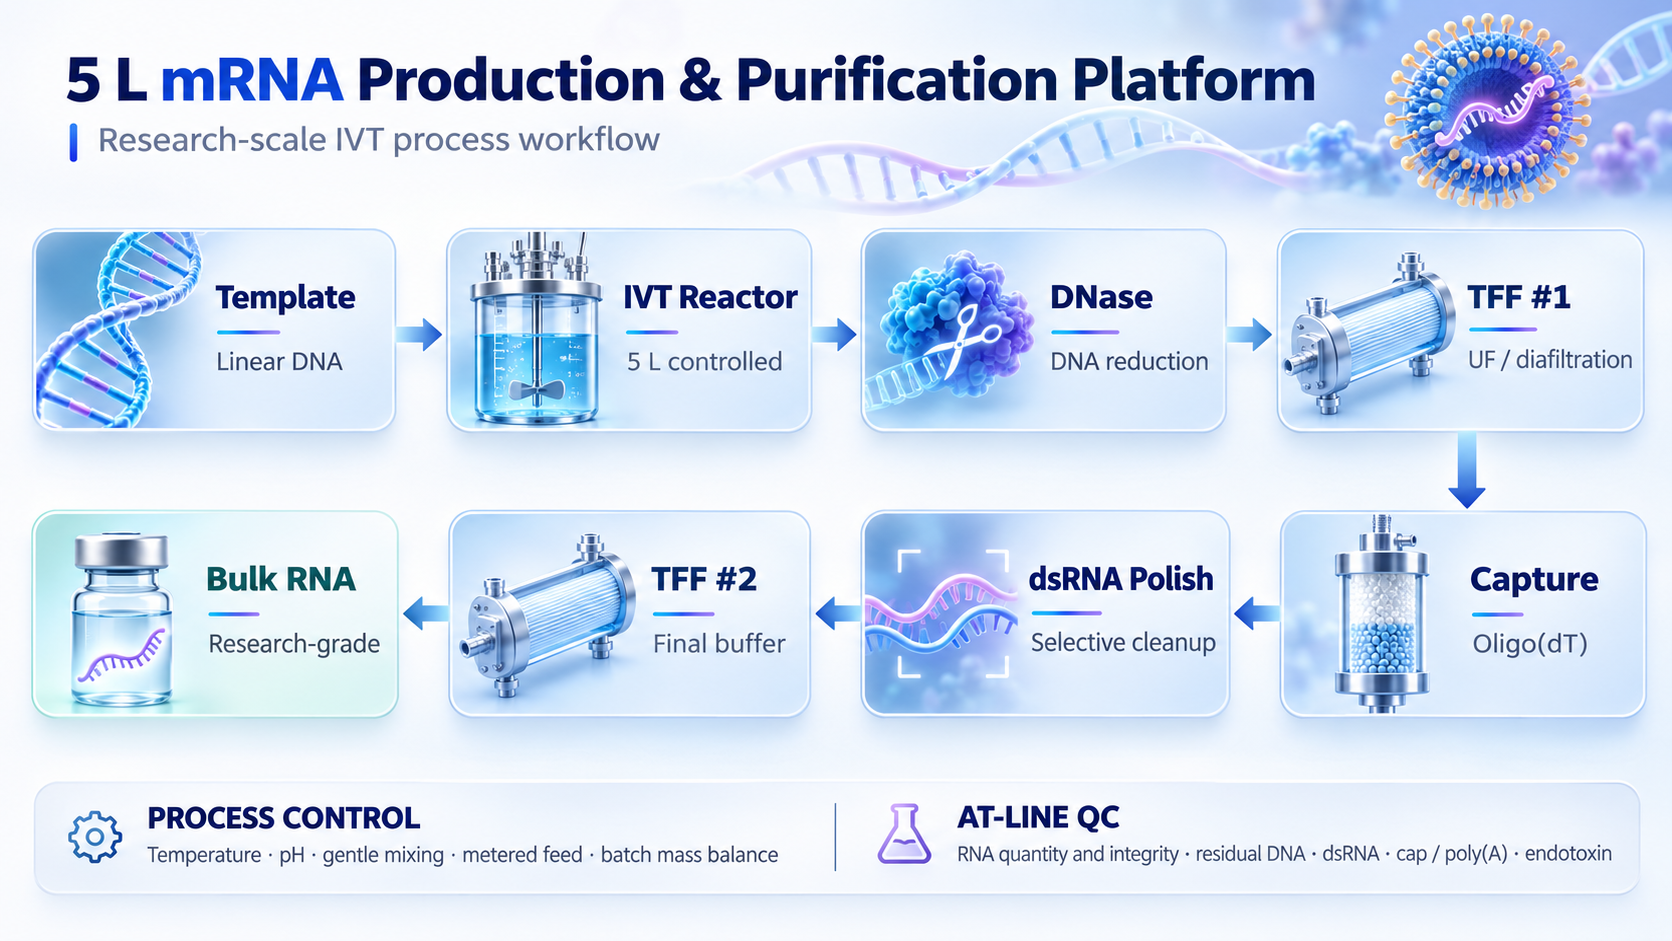
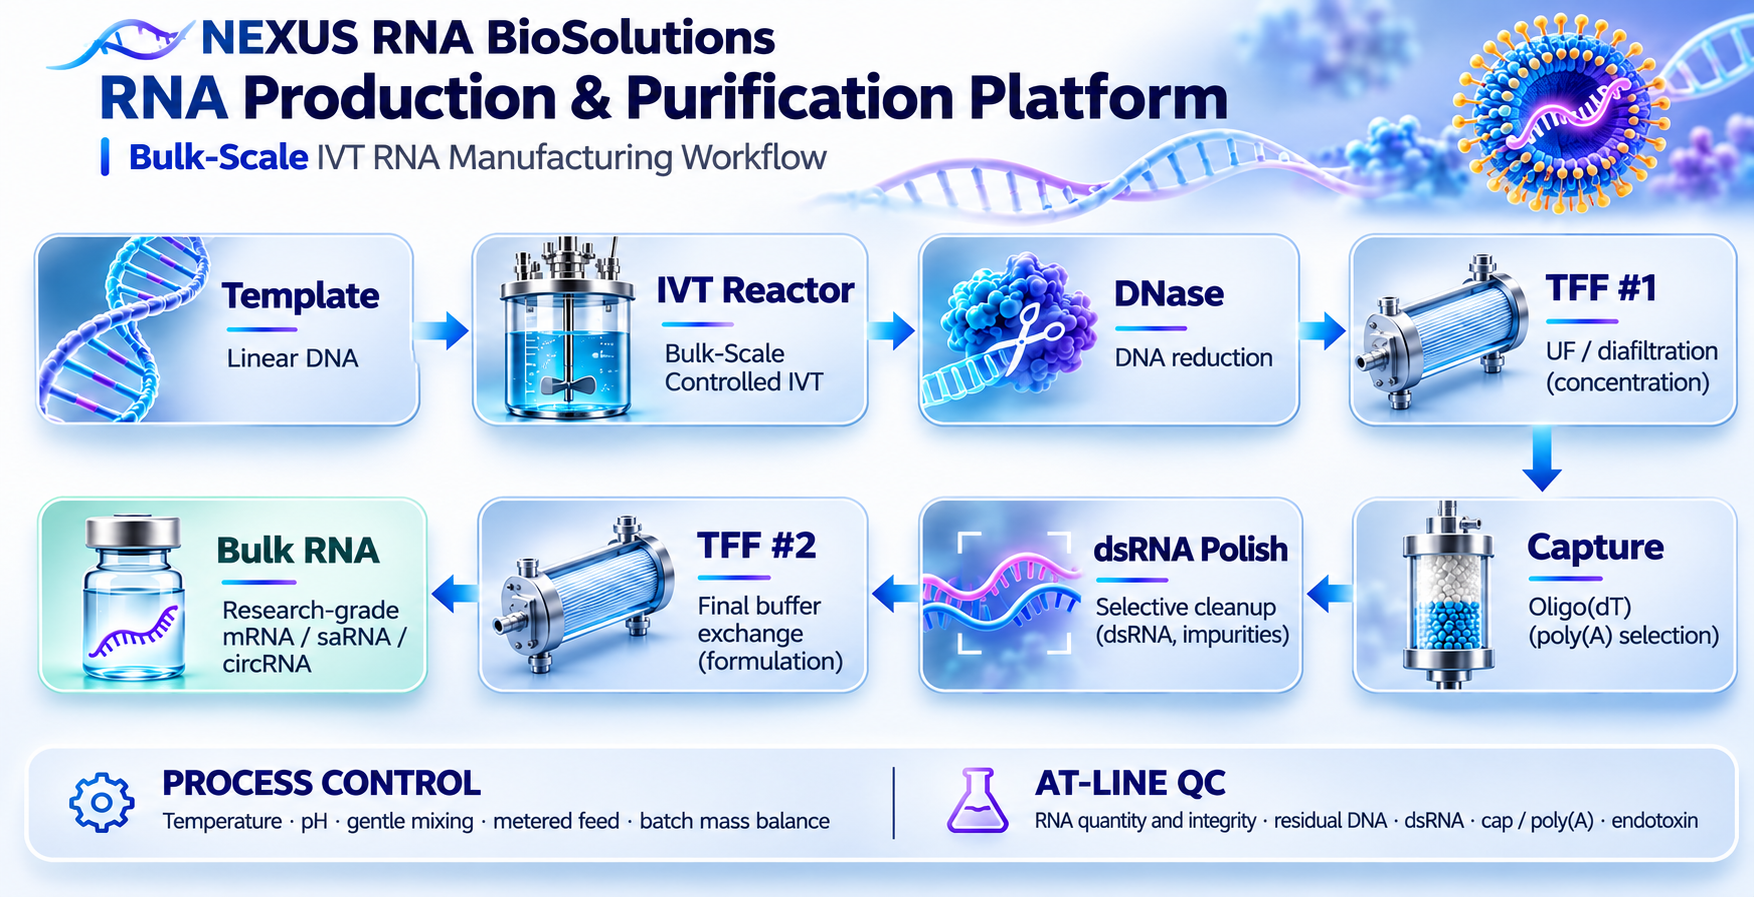
Update Bulk-Scale RNA Production Service

diff --git a/services/rna-production-5l.html b/services/rna-production-5l.html
@@ -3,8 +3,8 @@
 <head>
 <meta charset="utf-8">
 <meta name="viewport" content="width=device-width, initial-scale=1">
-<meta name="description" content="NEXUS RNA BioSolutions 5 L research-scale mRNA IVT production and purification platform: reactor engineering, TFF and chromatography strategy, RNA analytics, scale-up and technology transfer.">
-<title>5 L mRNA Production &amp; Purification | NEXUS RNA BioSolutions</title>
+<meta name="description" content="NEXUS RNA BioSolutions bulk-scale RNA production and purification process-development services: IVT reactor engineering, TFF, chromatography, RNA analytics, and technology transfer.">
+<title>Bulk-Scale RNA Production &amp; Purification | NEXUS RNA BioSolutions</title>
 <link rel="stylesheet" href="../assets/nexus-services-portfolio.css">
 <style>
 .nexus-portfolio-page .n5-hero{background:linear-gradient(115deg,#f6fbff 5%,#dfeeff 100%);padding:62px 0 52px;border-bottom:1px solid #d6e4f7}
@@ -46,32 +46,32 @@
 <main id="main">
 <section class="n5-hero"><div class="portfolio-shell">
 <p class="eyebrow">NEXUS RNA BIOSOLUTIONS · RNA PROCESS DEVELOPMENT</p>
-<h1>5 L mRNA Production &amp; Purification Platform</h1>
+<h1>Bulk-Scale RNA Production &amp; Purification Platform</h1>
 <span class="n5-tag">Process design available · Physical platform commissioning planned</span>
-<p class="n5-lede">Research-scale, enzyme-based mRNA in vitro transcription (IVT), downstream purification, analytical characterization and scale-up support. A modular path from construct design to purified bulk research RNA.</p>
-<div class="n5-row"><a class="request" href="../services.html#quote">Discuss a 5 L RNA project <span aria-hidden="true">→</span></a><a class="n5-secondary" href="portfolio.html#delivery-therapeutic">Back to all services</a></div>
+<p class="n5-lede">Modular IVT process development, RNA purification, analytical characterization and scale-up engineering—from construct design through purified bulk research RNA. Production capacity and equipment are scoped to each project.</p>
+<div class="n5-row"><a class="request" href="../services.html#quote">Discuss an RNA production project <span aria-hidden="true">→</span></a><a class="n5-secondary" href="portfolio.html#delivery-therapeutic">Back to all services</a></div>
 </div></section>
 <div class="portfolio-shell n5-wrap">
 <div class="n5-keyfacts" aria-label="Platform design basis">
-<div class="n5-fact"><strong>Up to 5 L</strong><span>IVT reaction working volume — planned capability</span></div>
+<div class="n5-fact"><strong>Bulk-scale design</strong><span>Project-specific working volumes; proposed scale-up architecture</span></div>
 <div class="n5-fact"><strong>Controlled IVT</strong><span>Batch baseline, with fed-batch-capable architecture</span></div>
 <div class="n5-fact"><strong>Integrated DSP</strong><span>TFF, chromatography and RNA QC strategy</span></div>
 </div>
 <section class="n5-section" aria-labelledby="capabilities"><h2 id="capabilities">What NEXUS can support</h2>
 <div class="n5-grid">
 <div class="n5-cap"><strong>IVT process design &amp; scale-up</strong><p>Reactor selection, mixing and thermal-control strategy, reagent-feed architecture and process mapping for research-stage mRNA.</p></div>
-<div class="n5-cap"><strong>Reactor system engineering</strong><p>Conceptual 8–10 L vessel configuration sized for a 5 L working reaction, single-use fluid path and instrumentation specification.</p></div>
+<div class="n5-cap"><strong>Reactor system engineering</strong><p>Modular reactor sizing and configuration, scalable single-use fluid-path design, precision feed control and process instrumentation specifications.</p></div>
 <div class="n5-cap"><strong>Upstream-to-downstream integration</strong><p>Template handling, co-transcriptional capping options, residual-template removal, closed transfer and recovery planning.</p></div>
 <div class="n5-cap"><strong>Purification process development</strong><p>Tangential flow filtration, buffer exchange, RNA capture and impurity-polishing strategies suited to the construct and research objective.</p></div>
 <div class="n5-cap"><strong>RNA analytical characterization</strong><p>Research methods for RNA quantity, integrity, residual DNA, dsRNA and applicable cap/poly(A) assessments.</p></div>
 <div class="n5-cap"><strong>Technology transfer &amp; partner support</strong><p>Equipment RFQs, batch records, process-flow documentation, technical packages and qualified external laboratory coordination.</p></div>
 </div></section>
-<section class="n5-section" aria-labelledby="workflow"><h2 id="workflow">Proposed platform workflow</h2>
-<figure class="n5-flow"><img src="../assets/nexus-rna-5l-process-flow-scientific.png" loading="lazy" width="1672" height="941" alt="Research mRNA workflow: linear DNA template, controlled 5 L IVT reactor, DNase, first TFF, RNA capture, dsRNA polishing, second TFF, research-grade bulk RNA; process control and analytical QC throughout."><figcaption>Illustrative engineering process flow for polyadenylated mRNA. Purification sequence and materials depend on construct properties and downstream objectives.</figcaption></figure>
+<section class="n5-section" aria-labelledby="workflow"><h2 id="workflow">RNA BioSolutions RNA Production &amp; Purification Platform</h2>
+<figure class="n5-flow"><img src="../assets/nexus-rna-5l-process-flow-scientific.png?v=bulk-scale-2026" loading="lazy" width="1754" height="897" alt="Research mRNA workflow: linear DNA template, controlled bulk-scale IVT reactor, DNase, first TFF, RNA capture, dsRNA polishing, second TFF, research-grade bulk RNA; process control and analytical QC throughout."><figcaption>Conceptual process flow for polyadenylated mRNA. Other RNA formats may require different capture and polishing steps. Physical production depends on equipment readiness or qualified partners.</figcaption></figure>
 </section>
 <section class="n5-section" aria-labelledby="engagement"><h2 id="engagement">Engagement options</h2>
-<div class="n5-columns"><div><h3>Available for scoping and consulting</h3><ul class="n5-list"><li>5 L IVT platform feasibility and system specification</li><li>Production and purification process-flow development</li><li>Equipment and analytical instrument selection</li><li>Mass-balance, capacity and cost-model assumptions</li><li>Laboratory build-out, sourcing and partner coordination</li></ul></div><div><h3>Upon commissioning or through qualified partners</h3><ul class="n5-list"><li>Physical mRNA synthesis at development scale</li><li>Purification and bulk RNA recovery studies</li><li>Experimental process optimization and troubleshooting</li><li>Research-grade analytical characterization</li><li>Transfer to later-stage manufacturing organizations</li></ul></div></div>
-<p class="n5-scope"><strong>Availability and scope:</strong> This is a designed research-scale platform, not a statement that an operating 5 L facility is already commissioned. Experimental production is contingent on equipment readiness, appropriate facilities and/or qualified partner capacity. No GMP, clinical-grade, therapeutic efficacy or product-release claims are made.</p>
+<div class="n5-columns"><div><h3>Available for scoping and consulting</h3><ul class="n5-list"><li>Bulk-scale IVT platform feasibility and system specification</li><li>Production and purification process-flow development</li><li>Equipment and analytical instrument selection</li><li>Mass-balance, capacity and cost-model assumptions</li><li>Laboratory build-out, sourcing and partner coordination</li></ul></div><div><h3>Upon commissioning or through qualified partners</h3><ul class="n5-list"><li>Physical mRNA synthesis at development scale</li><li>Purification and bulk RNA recovery studies</li><li>Experimental process optimization and troubleshooting</li><li>Research-grade analytical characterization</li><li>Transfer to later-stage manufacturing organizations</li></ul></div></div>
+<p class="n5-scope"><strong>Availability and scope:</strong> This offering covers bulk-scale RNA process design and engineering, not a claim of an operating commissioned manufacturing facility. Physical production depends on appropriate facilities, equipment readiness and/or qualified partner capacity. No GMP, clinical-grade, therapeutic efficacy or product-release claims are made.</p>
 </section>
 <section class="n5-section" aria-labelledby="deliverables"><h2 id="deliverables">Typical project deliverables</h2>
 <ul class="n5-list"><li>Process flow diagram and system specification</li><li>Reactor/purification equipment requirements and vendor RFQ package</li><li>Scientific rationale and process development plan</li><li>Research QC panel and critical quality attributes</li><li>Tech-transfer or partner-execution documentation</li></ul>
@@ -79,6 +79,6 @@
 <div class="n5-row"><a class="request" href="../services.html#quote">Request a technical consultation <span aria-hidden="true">→</span></a></div>
 </section>
 </div></main>
-<footer><div class="portfolio-shell">© 2026 NEXUS RNA BioSolutions · Research-stage services. Proposed 5 L platform subject to commissioning, project scope, and applicable IP/regulatory requirements.</div></footer>
+<footer><div class="portfolio-shell">© 2026 NEXUS RNA BioSolutions · Research-stage services. Bulk-scale process engineering and production subject to commissioned capacity, project scope, and applicable IP/regulatory requirements.</div></footer>
 </body>
 </html>

diff --git a/services/portfolio.html b/services/portfolio.html
@@ -86,7 +86,7 @@
 <li><strong>RNA / LNP analytical method planning</strong><span>Particle, encapsulation, integrity and stability assay plans and criteria.</span></li>
 <li><strong>Expression and immunology study planning</strong><span>Cell-based expression, immune-response and functional endpoint study designs.</span></li>
 <li><strong>Preclinical research and partner coordination</strong><span>Evidence packages, technical milestones and qualified laboratory partner planning.</span></li>
-<li data-nexus-service="5l-mrna"><strong>5 L mRNA IVT Production &amp; Purification Platform</strong><span>Research-stage IVT scale-up, controlled reactor process design, TFF/chromatography purification strategy and analytical QC. Physical 5 L batches are planned following commissioning or through qualified partners. <a href="rna-production-5l.html" style="color:#1459df;font-weight:800;text-decoration:underline">View the 5 L platform and services →</a></span></li>
+<li data-nexus-service="5l-mrna"><strong>Bulk-Scale RNA Production &amp; Purification Platform</strong><span>Modular IVT process-development, controlled reactor engineering, TFF/chromatography purification strategies, and RNA analytical QC. Physical bulk RNA production requires a commissioned facility or qualified partner capacity. <a href="rna-production-5l.html" style="color:#1459df;font-weight:800;text-decoration:underline">Explore the RNA production platform →</a></span></li>
 </ol>
 <p class="deliverable"><strong>Typical deliverables:</strong> Formulation research design, DoE plan, analytical testing strategy and partner-ready technical dossier.</p>
 <p class="scope"><strong>Scope note:</strong> Physical LNP formulation, GMP production and laboratory testing require suitable facilities or contracted partners.</p>
